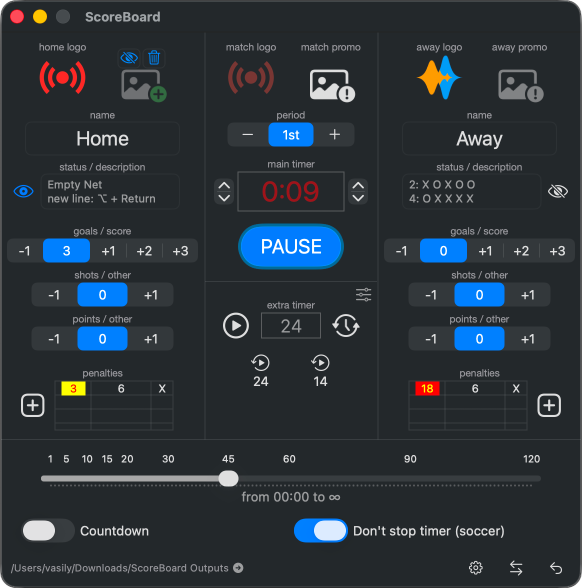
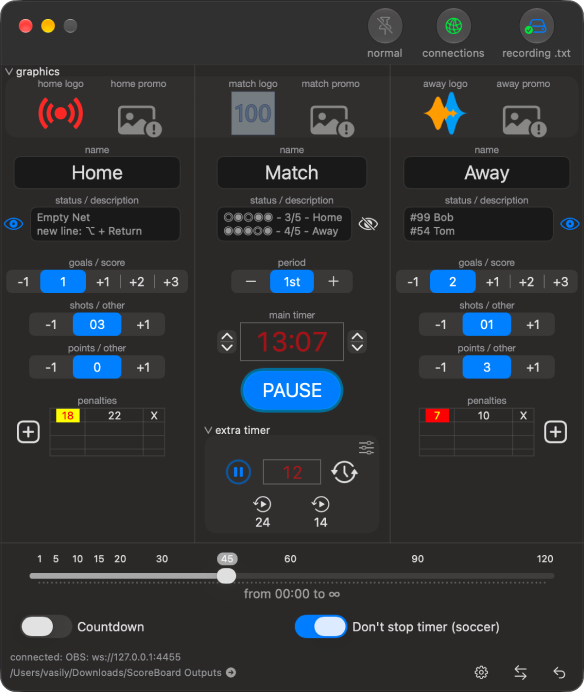
new screens

diff --git a/_includes/screenshot.html b/_includes/screenshot.html
@@ -1,8 +1,8 @@
 {%- comment -%}
   Скриншот приложения на языке страницы: /img/<name>_<суффикс>.png (суффикс — img или code из _data/i18n.yml),
   если такого файла нет — /img/<name>_en.png.
-  Параметры: name (например, 1_main), alt.
-  Пример: {% include screenshot.html name="1_main" alt="..." %}
+  Параметры: name (например, 1_Main), alt.
+  Пример: {% include screenshot.html name="1_Main" alt="..." %}
 {%- endcomment -%}
 {%- assign shot_lang = page.lang | default: site.lang | default: "en" -%}
 {%- assign shot_cfg = site.data.i18n.languages | where: "code", shot_lang | first -%}

diff --git a/fr/index.md b/fr/index.md
@@ -70,13 +70,15 @@ _Notariée et vérifiée par Apple : vous pouvez la télécharger et l'utiliser 
 
 ## Captures d'écran de ScoreBoard et d'OBS
 <p align="center">
-  {% include screenshot.html name="1_main" alt="Écran principal de ScoreBoard pour Mac avec les commandes du score et du chrono" %}
+  {% include screenshot.html name="1_Main" alt="Écran principal de ScoreBoard pour Mac avec les commandes du score et du chrono" %}
   <br>
-  {% include screenshot.html name="2_preferences" alt="Préférences de ScoreBoard pour Mac pour personnaliser la sortie du tableau de score" %}
+  {% include screenshot.html name="2_Settings" alt="Préférences de ScoreBoard pour Mac pour personnaliser la sortie du tableau de score" %}
   <br>
-  {% include screenshot.html name="3_hotkeys" alt="Raccourcis clavier et actions de la Touch Bar dans ScoreBoard pour Mac" %}
+  {% include screenshot.html name="3_Hotkeys" alt="Raccourcis clavier et actions de la Touch Bar dans ScoreBoard pour Mac" %}
   <br>
-  {% include screenshot.html name="4_txtFiles" alt="Fichiers TXT de sortie de ScoreBoard pour Mac utilisés comme sources texte dans OBS" %}
+  {% include screenshot.html name="4_Files" alt="Fichiers TXT de sortie de ScoreBoard pour Mac utilisés comme sources texte dans OBS" %}
+  <br>
+  {% include screenshot.html name="5_WebSockets" alt="Réglages de connexion WebSocket de ScoreBoard pour Mac pour les données en direct dans OBS, Streamlabs, Meld et DataLink" %}
   <br>
 </p>
 

diff --git a/es/index.md b/es/index.md
@@ -70,13 +70,15 @@ _Notarizada y verificada por Apple: es segura para descargar y usar en tu Mac._
 
 ## Capturas de pantalla de ScoreBoard y OBS
 <p align="center">
-  {% include screenshot.html name="1_main" alt="Pantalla principal de ScoreBoard para Mac con controles de marcador y cronómetro" %}
+  {% include screenshot.html name="1_Main" alt="Pantalla principal de ScoreBoard para Mac con controles de marcador y cronómetro" %}
   <br>
-  {% include screenshot.html name="2_preferences" alt="Preferencias de ScoreBoard para Mac para personalizar la salida del marcador" %}
+  {% include screenshot.html name="2_Settings" alt="Preferencias de ScoreBoard para Mac para personalizar la salida del marcador" %}
   <br>
-  {% include screenshot.html name="3_hotkeys" alt="Atajos de teclado y acciones de la Touch Bar en ScoreBoard para Mac" %}
+  {% include screenshot.html name="3_Hotkeys" alt="Atajos de teclado y acciones de la Touch Bar en ScoreBoard para Mac" %}
   <br>
-  {% include screenshot.html name="4_txtFiles" alt="Archivos TXT de salida de ScoreBoard para Mac usados como fuentes de texto en OBS" %}
+  {% include screenshot.html name="4_Files" alt="Archivos TXT de salida de ScoreBoard para Mac usados como fuentes de texto en OBS" %}
+  <br>
+  {% include screenshot.html name="5_WebSockets" alt="Ajustes de conexión WebSocket de ScoreBoard para Mac para datos en vivo en OBS, Streamlabs, Meld y DataLink" %}
   <br>
 </p>
 

diff --git a/de/index.md b/de/index.md
@@ -70,13 +70,15 @@ _Von Apple notarisiert und geprüft – sicher herunterzuladen und auf deinem Ma
 
 ## Screenshots von ScoreBoard und OBS
 <p align="center">
-  {% include screenshot.html name="1_main" alt="Hauptfenster von ScoreBoard für Mac mit Steuerung für Spielstand und Timer" %}
+  {% include screenshot.html name="1_Main" alt="Hauptfenster von ScoreBoard für Mac mit Steuerung für Spielstand und Timer" %}
   <br>
-  {% include screenshot.html name="2_preferences" alt="Einstellungen von ScoreBoard für Mac zum Anpassen der Scoreboard-Ausgabe" %}
+  {% include screenshot.html name="2_Settings" alt="Einstellungen von ScoreBoard für Mac zum Anpassen der Scoreboard-Ausgabe" %}
   <br>
-  {% include screenshot.html name="3_hotkeys" alt="Tastenkürzel und Touch-Bar-Aktionen in ScoreBoard für Mac" %}
+  {% include screenshot.html name="3_Hotkeys" alt="Tastenkürzel und Touch-Bar-Aktionen in ScoreBoard für Mac" %}
   <br>
-  {% include screenshot.html name="4_txtFiles" alt="Ausgegebene TXT-Dateien von ScoreBoard für Mac als Textquellen in OBS" %}
+  {% include screenshot.html name="4_Files" alt="Ausgegebene TXT-Dateien von ScoreBoard für Mac als Textquellen in OBS" %}
+  <br>
+  {% include screenshot.html name="5_WebSockets" alt="WebSocket-Verbindungseinstellungen von ScoreBoard für Mac für Live-Daten in OBS, Streamlabs, Meld und DataLink" %}
   <br>
 </p>
 

diff --git a/index.md b/index.md
@@ -67,13 +67,15 @@ _Notarized and verified by Apple, safe to download and use on your Mac._
 
 ## Screenshots of ScoreBoard and OBS
 <p align="center">
-  <img alt="ScoreBoard for Mac main screen with live score and timer controls" width="800" src="/img/1_main_en.png">
+  <img alt="ScoreBoard for Mac main screen with live score and timer controls" width="800" src="/img/1_Main_en.png">
   <br>
-  <img alt="ScoreBoard for Mac preferences screen for customizing scoreboard output" width="800" src="/img/2_preferences_en.png">
+  <img alt="ScoreBoard for Mac preferences screen for customizing scoreboard output" width="800" src="/img/2_Settings_en.png">
   <br>
-  <img alt="ScoreBoard for Mac hotkeys and Touch Bar actions for score control" width="800" src="/img/3_hotkeys_en.png">
+  <img alt="ScoreBoard for Mac hotkeys and Touch Bar actions for score control" width="800" src="/img/3_Hotkeys_en.png">
   <br>
-  <img alt="ScoreBoard for Mac output TXT files used as OBS text sources" width="800" src="/img/4_txtFiles_en.png">
+  <img alt="ScoreBoard for Mac output TXT files used as OBS text sources" width="800" src="/img/4_Files_en.png">
+  <br>
+  <img alt="ScoreBoard for Mac WebSocket connection settings for live data in OBS, Streamlabs, Meld and DataLink" width="800" src="/img/5_WebSockets_en.png">
   <br>
 </p>
 

diff --git a/zh-hans/index.md b/zh-hans/index.md
@@ -70,13 +70,15 @@ _已通过 Apple 公证和验证，可放心在 Mac 上下载和使用。_
 
 ## ScoreBoard 和 OBS 截图
 <p align="center">
-  {% include screenshot.html name="1_main" alt="ScoreBoard for Mac 主界面，包含比分和计时器控制" %}
+  {% include screenshot.html name="1_Main" alt="ScoreBoard for Mac 主界面，包含比分和计时器控制" %}
   <br>
-  {% include screenshot.html name="2_preferences" alt="ScoreBoard for Mac 偏好设置，用于自定义记分牌输出" %}
+  {% include screenshot.html name="2_Settings" alt="ScoreBoard for Mac 偏好设置，用于自定义记分牌输出" %}
   <br>
-  {% include screenshot.html name="3_hotkeys" alt="ScoreBoard for Mac 的快捷键和触控栏操作" %}
+  {% include screenshot.html name="3_Hotkeys" alt="ScoreBoard for Mac 的快捷键和触控栏操作" %}
   <br>
-  {% include screenshot.html name="4_txtFiles" alt="ScoreBoard for Mac 输出的 TXT 文件在 OBS 中用作文本来源" %}
+  {% include screenshot.html name="4_Files" alt="ScoreBoard for Mac 输出的 TXT 文件在 OBS 中用作文本来源" %}
+  <br>
+  {% include screenshot.html name="5_WebSockets" alt="ScoreBoard for Mac 的 WebSocket 连接设置，向 OBS、Streamlabs、Meld 和 DataLink 实时发送数据" %}
   <br>
 </p>
 
